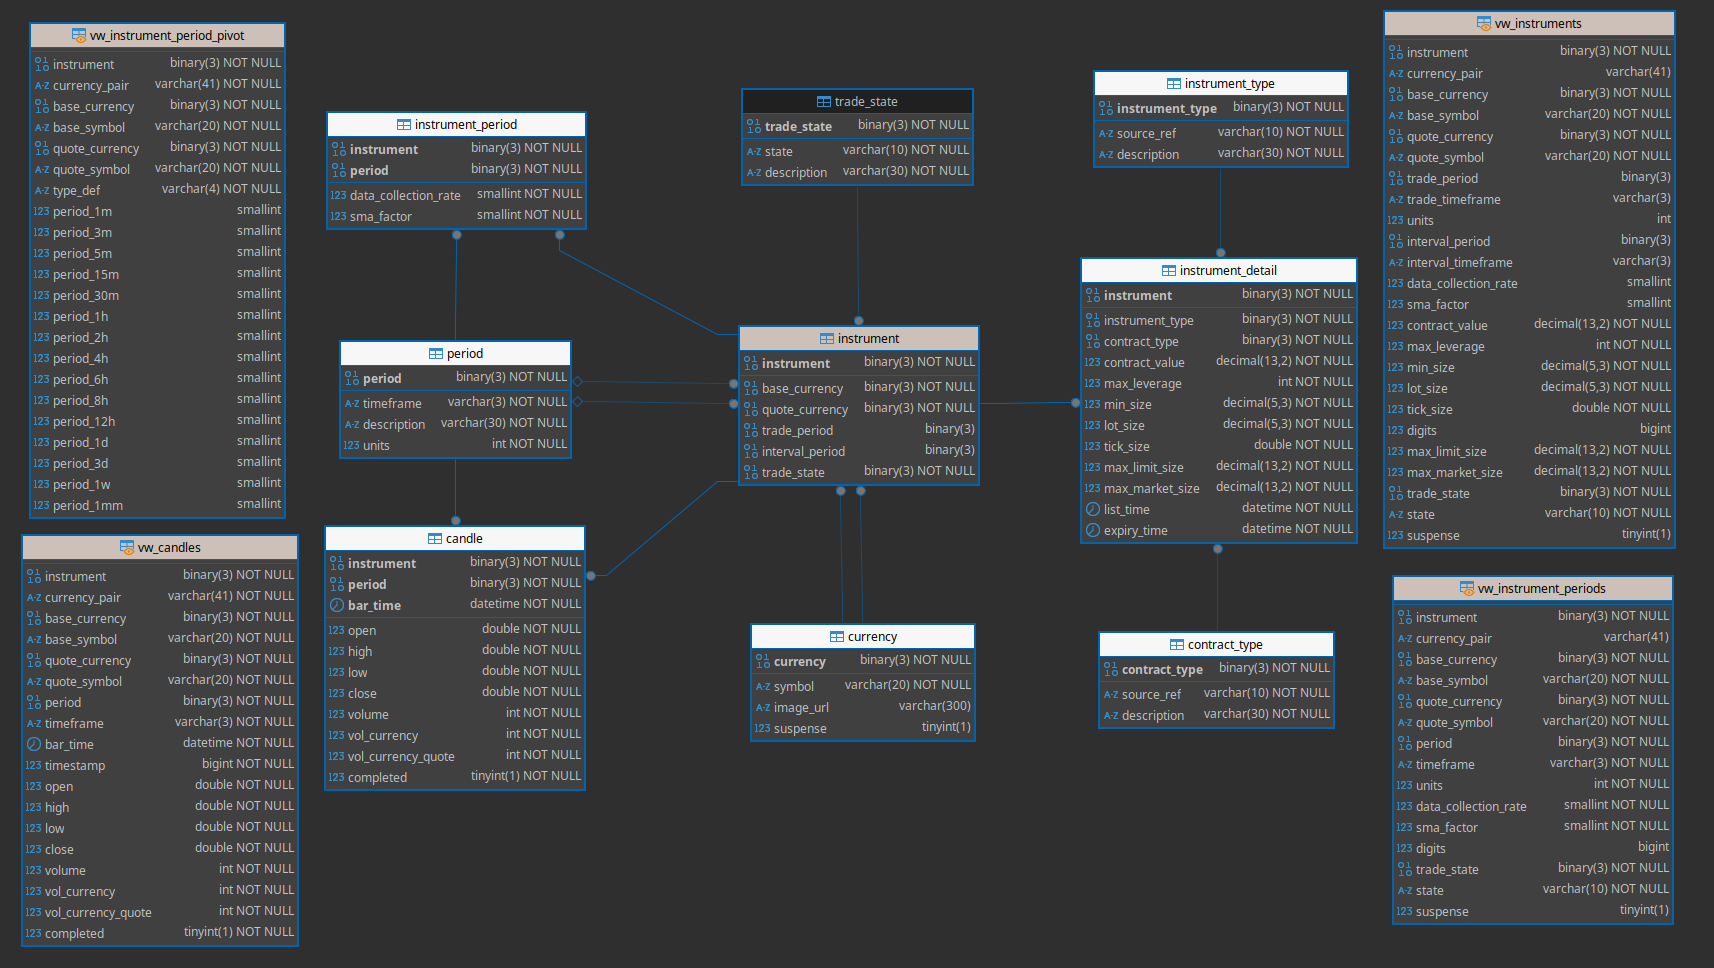
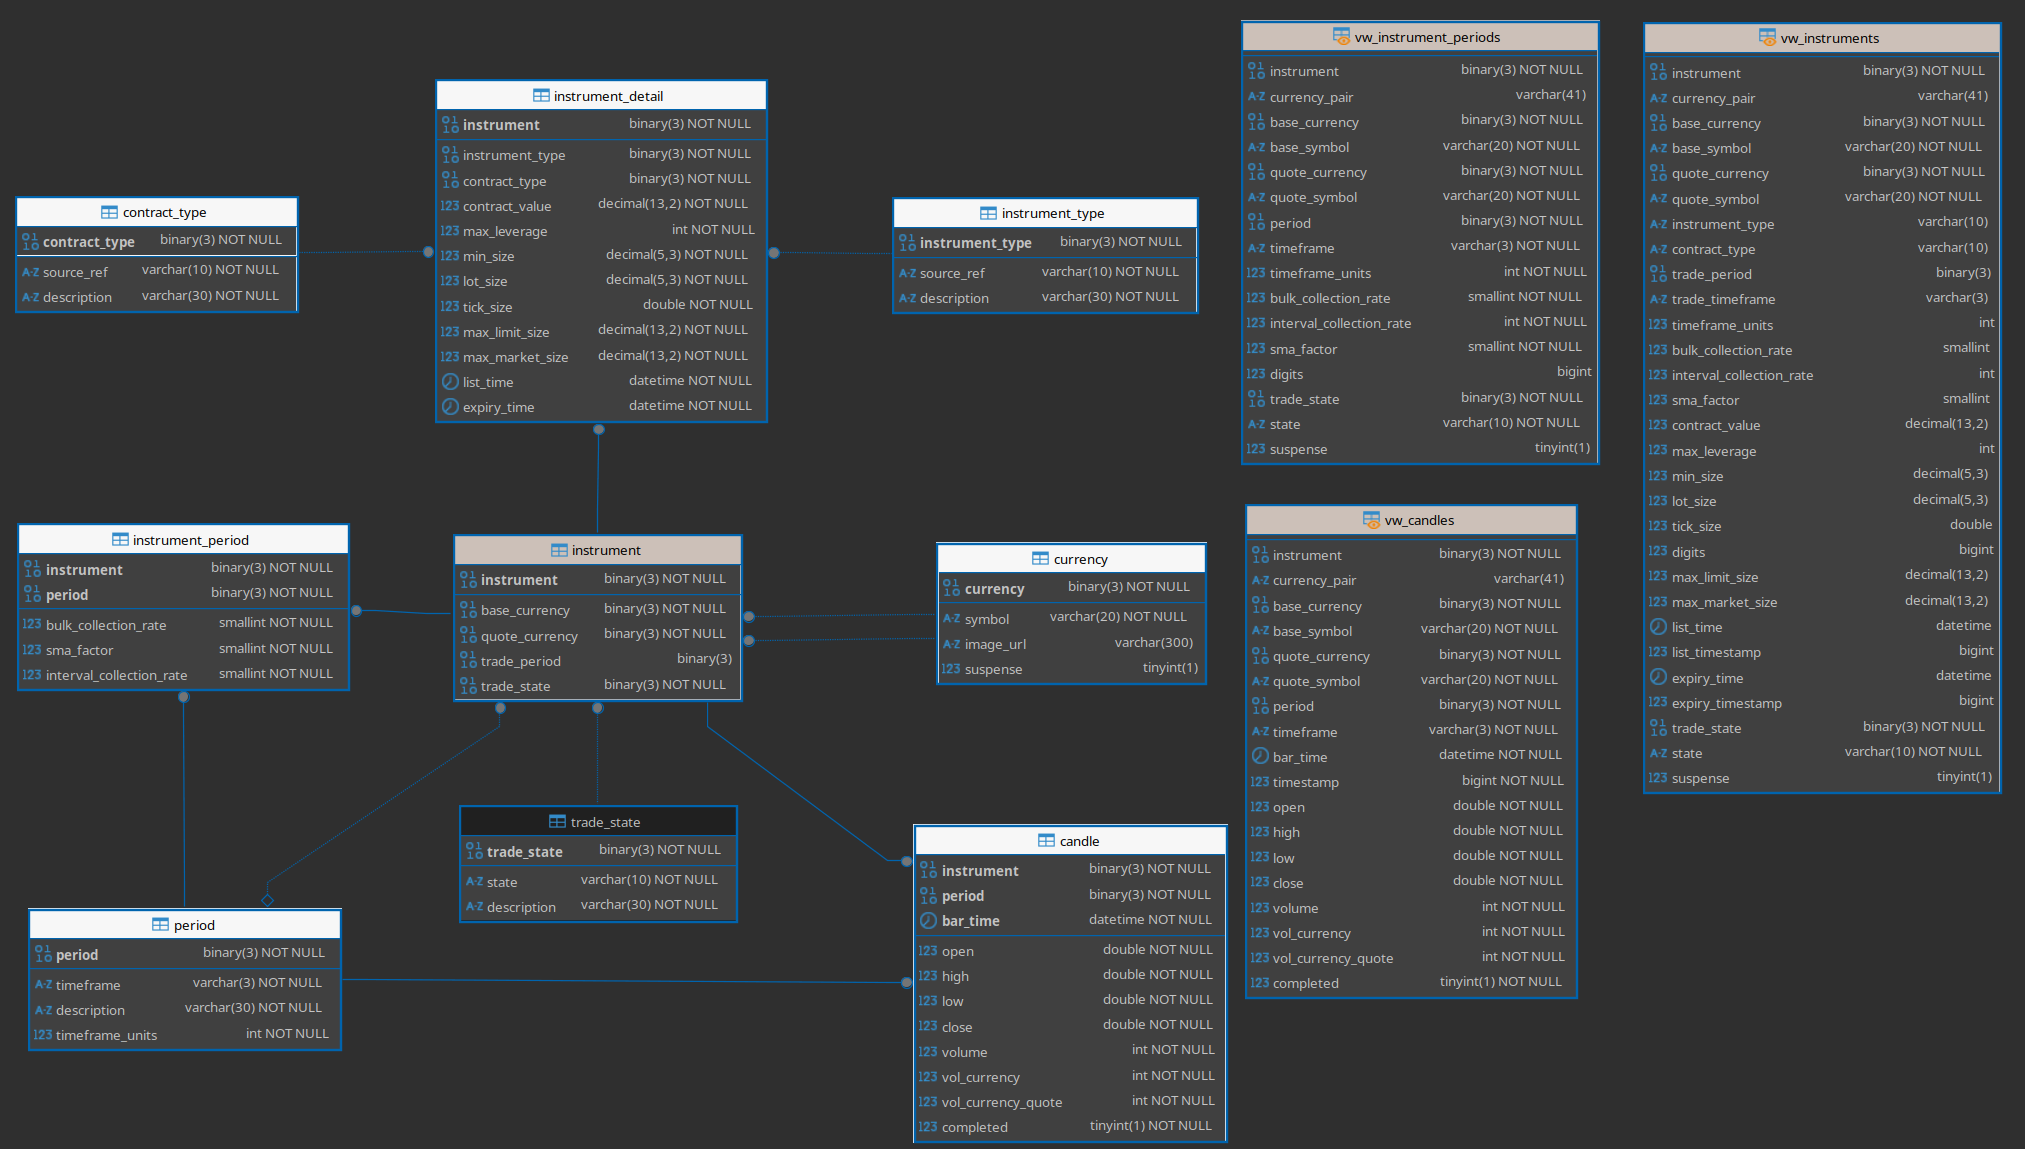
Savepoint; working release; instrument update and suspensions complete; LL: 'async forEach' (although it 'works') not supported; changed to 'for const' loops and some odd behaviour vanished. Instruments now 100% sync'd with blofin; next up: candles;

Changed region(s): [[0.402, 0.0, 0.9895, 1.0], [0.0, 0.0, 0.402, 0.9917]]

diff --git a/api/instruments.ts b/api/instruments.ts
@@ -4,7 +4,7 @@
 //+--------------------------------------------------------------------------------------+
 "use strict";
 
-import { hex, splitSymbol } from "@/lib/std.util";
+import { isEqual, splitSymbol } from "@/lib/std.util";
 
 import * as Instrument from "@db/interfaces/instrument";
 import * as Currency from "@db/interfaces/currency";
@@ -17,8 +17,6 @@ export interface IInstrumentAPI {
   instId: string;
   baseCurrency: string;
   quoteCurrency: string;
-  instType: string;
-  contractType: string;
   contractValue: number;
   listTime: number;
   expireTime: number;
@@ -26,6 +24,8 @@ export interface IInstrumentAPI {
   minSize: number;
   lotSize: number;
   tickSize: number;
+  instType: string;
+  contractType: string;
   maxLimitSize: number;
   maxMarketSize: number;
   state: string;
@@ -34,25 +34,81 @@ export interface IInstrumentAPI {
 export interface IResult {
   code: string;
   msg: string;
-  data: IInstrumentAPI[];
+  data: Array<IInstrumentAPI>;
 }
 
 //+--------------------------------------------------------------------------------------+
-//| Publish - Updates Instruments, related elements stored locally                       |
+//| Publish - Creates new instruments; populates periods on new Blofin receipts          |
 //+--------------------------------------------------------------------------------------+
-export function Publish(apiInstruments: IInstrumentAPI[]) {
-  apiInstruments.forEach(async (apiInstrument) => {
-    const symbol: string[] = splitSymbol(apiInstrument.instId);
-    const baseCurrency = await Currency.Publish(symbol[0], apiInstrument.state !== "live");
+export async function Publish(apiInstrument: Array<IInstrumentAPI>): Promise<Array<IInstrumentAPI>> {
+  for (const api of apiInstrument) {
+    const symbol: string[] = splitSymbol(api.instId);
+    const baseCurrency = await Currency.Publish(symbol[0], api.state !== "live");
     const quoteCurrency = await Currency.Publish(symbol[1], false);
-    const contractType = await ContractType.Publish(apiInstrument.contractType);
-    const instrumentType = await InstrumentType.Publish(apiInstrument.instType);
+    const contractType = await ContractType.Publish(api.contractType);
+    const instrumentType = await InstrumentType.Publish(api.instType);
     const instrument = await Instrument.Publish(baseCurrency, quoteCurrency);
 
-    await InstrumentDetail.Publish(instrument, instrumentType, contractType, apiInstrument);
+    await InstrumentDetail.Publish(instrument, instrumentType, contractType, api);
 
-    console.log("Published", symbol);
+    //console.log("Published", symbol);
+  }
+  return apiInstrument;
+}
+
+//+--------------------------------------------------------------------------------------+
+//| Process - Compares Instruments/details stored locally w/Blofin json; applies diffs   |
+//+--------------------------------------------------------------------------------------+
+export async function Process(apiInstruments: Array<IInstrumentAPI>) {
+  const instruments: Array<Partial<Instrument.IInstrument>> = await Instrument.FetchAll();
+  const modified: Array<IInstrumentAPI> = [];
+  const suspense: Array<Currency.IKeyProps> = [];
+
+  const db: Array<Partial<Instrument.IInstrument>> = instruments.sort((a, b) => {
+    return a.currency_pair! < b.currency_pair! ? -1 : a.currency_pair! > b.currency_pair! ? 1 : 0;
   });
+  const api: Array<IInstrumentAPI> = apiInstruments.sort((a, b) => {
+    return a.instId < b.instId ? -1 : a.instId > b.instId ? 1 : 0;
+  });
+
+  if (db.length >= api.length) {
+    let instrument = 0;
+
+    db.forEach((local) => {
+      if (local.currency_pair === api[instrument].instId) {
+        let updated: boolean = false;
+
+        !isEqual(local.contract_value!, api[instrument].contractValue) && (updated = true);
+        !isEqual(local.list_timestamp!, api[instrument].listTime / 1000) && (updated = true);
+        !isEqual(local.expiry_timestamp!, api[instrument].expireTime / 1000) && (updated = true);
+        !isEqual(local.max_leverage!, api[instrument].maxLeverage) && (updated = true);
+        !isEqual(local.min_size!, api[instrument].minSize) && (updated = true);
+        !isEqual(local.lot_size!, api[instrument].lotSize) && (updated = true);
+        !isEqual(local.tick_size!, api[instrument].tickSize) && (updated = true);
+        !isEqual(local.max_limit_size!, api[instrument].maxLimitSize) && (updated = true);
+        !isEqual(local.max_market_size!, api[instrument].maxMarketSize) && (updated = true);
+
+        local.instrument_type !== api[instrument].instType && (updated = true);
+        local.contract_type !== api[instrument].contractType && (updated = true);
+        local.suspense === (api[instrument].state === "live") && (updated = true);
+
+        if (updated) {
+          const update = Object.assign({}, { instrument: local.instrument! }, api[instrument]);
+          modified.push(update);
+        }
+
+        instrument++;
+      } else if (local.currency_pair! <= api[instrument].instId) {
+        !local.suspense && suspense.push({ currency: local.base_currency!, symbol: local.base_symbol! });
+      }
+    });
+  }
+  console.log("Instruments Suspended: ", suspense.length, suspense);
+  console.log("Instruments Updated: ", modified.length, modified);
+
+  await Currency.Suspend(suspense);
+  await Instrument.Suspend(suspense);
+  await InstrumentDetail.Update(modified);
 
   InstrumentPeriod.Publish();
 }
@@ -63,5 +119,6 @@ export function Publish(apiInstruments: IInstrumentAPI[]) {
 export function Import() {
   fetch(`https://openapi.blofin.com/api/v1/market/instruments`)
     .then((response) => response.json())
-    .then((result: IResult) => Publish(result.data));
+    .then(async (result: IResult) => await Publish(result.data))
+    .then(async (data: Array<IInstrumentAPI>) => await Process(data));
 }

diff --git a/db/interfaces/instrument.ts b/db/interfaces/instrument.ts
@@ -9,6 +9,7 @@ import { Select, Modify, UniqueKey } from "@db/query.utils";
 import { hex, splitSymbol } from "@/lib/std.util";
 import { State } from "@db/interfaces/trade_state";
 
+import * as Currency from "@db/interfaces/currency";
 import * as TradeState from "@db/interfaces/trade_state";
 
 export interface IInstrument extends RowDataPacket {
@@ -18,6 +19,8 @@ export interface IInstrument extends RowDataPacket {
   base_symbol: string;
   quote_currency: Uint8Array;
   quote_symbol: string;
+  instrument_type: string;
+  contract_type: string;
   trade_period: Uint8Array;
   trade_timeframe: string;
   timeframe_units: number;
@@ -32,6 +35,10 @@ export interface IInstrument extends RowDataPacket {
   digits: number;
   max_limit_size: number;
   max_market_size: number;
+  list_time: Date;
+  list_timestamp: number;
+  expiry_time: Date;
+  expiry_timestamp: number;
   trade_state: Uint8Array;
   state: string;
   suspense: boolean;
@@ -72,7 +79,7 @@ export async function Key(props: IKeyProps): Promise<Uint8Array | undefined> {
   const args = [];
 
   if (props.instrument) {
-    args.push(hex(props.instrument,3), `SELECT instrument FROM instrument WHERE instrument = ?`);
+    args.push(hex(props.instrument, 3), `SELECT instrument FROM instrument WHERE instrument = ?`);
   } else if (props.currency?.length === 2) {
     args.push(hex(props.currency[0]), hex(props.currency[1]), `SELECT instrument FROM instrument WHERE base_currency = ? AND quote_currency = ?`);
   } else {
@@ -81,15 +88,22 @@ export async function Key(props: IKeyProps): Promise<Uint8Array | undefined> {
     args.push(symbol[0], symbol[1], `SELECT instrument FROM vw_instruments WHERE base_symbol = ? AND quote_symbol = ?`);
   }
 
-  const [key] = await Select<IInstrument>(args[args.length-1].toString(), args.slice(0, args.length-1));
+  const [key] = await Select<IInstrument>(args[args.length - 1].toString(), args.slice(0, args.length - 1));
   return key === undefined ? undefined : key.instrument;
 }
 
 //+--------------------------------------------------------------------------------------+
-//| Retrieves all trading-related instrument detail by Key;                              |
+//| Retrieves all trading-related instrument details by Key;                              |
 //+--------------------------------------------------------------------------------------+
 export function Fetch(instrument: Uint8Array) {
   return Select<IInstrument>(`SELECT * FROM vw_instruments WHERE instrument = ?`, [instrument]);
+}
+
+//+--------------------------------------------------------------------------------------+
+//| Retrieves all instruments including details;                                         |
+//+--------------------------------------------------------------------------------------+
+export function FetchAll() {
+  return Select<IInstrument>(`SELECT * FROM vw_instruments`, []);
 }
 
 //+--------------------------------------------------------------------------------------+
@@ -101,4 +115,24 @@ export function FetchActive() {
        FROM vw_instruments WHERE data_collection_rate > 0 AND suspense = false`,
     []
   );
+}
+
+//+--------------------------------------------------------------------------------------+
+//| Suspends provided currency upon receipt of an 'unalive' state from Blofin;           |
+//+--------------------------------------------------------------------------------------+
+export async function Suspend(suspensions: Array<Currency.IKeyProps>) {
+  const state = await TradeState.Key({ state: "Suspended" });
+
+  for (const suspense of suspensions) {
+    const args = [state];
+
+    if (suspense.currency) {
+      args.push(hex(suspense.currency));
+    } else if (suspense.symbol) {
+      const currency = await Currency.Key({ symbol: suspense.symbol });
+      args.push(currency);
+    } else return;
+
+    await Modify(`UPDATE instrument SET trade_state = ? WHERE base_currency = ?`, args);
+  }
 }

diff --git a/db/interfaces/instrument_detail.ts b/db/interfaces/instrument_detail.ts
@@ -11,6 +11,8 @@ import { Modify, Select } from "@db/query.utils";
 import { hex } from "@/lib/std.util";
 
 import * as Instrument from "@db/interfaces/instrument";
+import * as ContractType from "@db/interfaces/contract_type";
+import * as InstrumentType from "@db/interfaces/instrument_type";
 
 export interface IInstrumentDetail extends RowDataPacket {
   instrument: Uint8Array;
@@ -79,7 +81,7 @@ export async function Publish(
 }
 
 //+--------------------------------------------------------------------------------------+
-//| Performs a lookup on instrument_detail; returns key if present                       |
+//| Performs a lookup on instrument_detail; returns key if instrument detail exists      |
 //+--------------------------------------------------------------------------------------+
 export async function Key(props: IKeyProps): Promise<Uint8Array | undefined> {
   const args = [];
@@ -90,4 +92,46 @@ export async function Key(props: IKeyProps): Promise<Uint8Array | undefined> {
 
   const [key] = await Select<IInstrumentDetail>(args[1].toString(), [args[0]]);
   return key === undefined ? undefined : key.instrument;
+}
+
+//+--------------------------------------------------------------------------------------+
+//| Updates instrument detail on all identified changes                                  |
+//+--------------------------------------------------------------------------------------+
+export async function Update(updates: Array<IInstrumentAPI & IKeyProps>) {
+  for (const update of updates) {
+    const contractType = await ContractType.Key({ sourceRef: update.contractType });
+    const instrumentType = await InstrumentType.Key({ sourceRef: update.instType });
+
+    if (update.instrument) {
+      await Modify(
+        `UPDATE instrument_detail 
+            SET instrument_type = ?,
+                contract_type = ?,
+                contract_value = ?,
+                max_leverage = ?,
+                min_size = ?,
+                lot_size = ?,
+                tick_size = ?,
+                max_limit_size = ?,
+                max_market_size = ?,
+                list_time = FROM_UNIXTIME(?/1000),
+                expiry_time = FROM_UNIXTIME(?/1000)
+          WHERE instrument = ?`,
+        [
+          instrumentType,
+          contractType,
+          update.contractValue,
+          update.maxLeverage,
+          update.minSize,
+          update.lotSize,
+          update.tickSize,
+          update.maxLimitSize,
+          update.maxMarketSize,
+          update.listTime,
+          update.expireTime,
+          update.instrument,
+        ]
+      );
+    }
+  }
 }

diff --git a/test.ts b/test.ts
@@ -1,3 +1,18 @@
+//----------------------------------- Instrument diffs ------------------------------------------//
+        //   local.instrument_type !== api[instrument].instType && console.log(local.instrument_type !== api[instrument].instType);
+        //   local.contract_type !== api[instrument].contractType && console.log(local.contract_type !== api[instrument].contractType);
+        //   !isEqual(local.contract_value!,api[instrument].contractValue) && console.log(local.contract_value, api[instrument].contractValue);
+        //   !isEqual(local.list_timestamp!,api[instrument].listTime / 1000) && console.log(local.list_timestamp, api[instrument].listTime / 1000);
+        //   !isEqual(local.expiry_timestamp!,api[instrument].expireTime / 1000) && console.log(local.expire_timestamp, api[instrument].expireTime / 1000);
+        //   !isEqual(local.max_leverage!,api[instrument].maxLeverage) && console.log(local.max_leverage, api[instrument].maxLeverage);
+        //   !isEqual(local.min_size!,api[instrument].minSize) && console.log(local.min_size, api[instrument].minSize);
+        //   !isEqual(local.lot_size!,api[instrument].lotSize) && console.log(local.lot_size, api[instrument].lotSize);
+        //   !isEqual(local.tick_size!,api[instrument].tickSize) && console.log(local.tick_size, api[instrument].tickSize);
+        //   !isEqual(local.max_limit_size!,api[instrument].maxLimitSize) && console.log(local.max_limit_size, api[instrument].maxLimitSize);
+        //   !isEqual(local.max_market_size!,api[instrument].maxMarketSize) && console.log(local.max_market_size, api[instrument].maxMarketSize);
+        //   (local.suspense === (api[instrument].state === "live")) && console.log(local.suspense,api[instrument].state);
+
+
 //----------------------------------- Instrument Type ------------------------------------------//
 // import { Publish } from "./db/interfaces/instrument_type";
 
@@ -7,7 +22,7 @@
 //     console.log(key);
 //     return key;
 //   }
-//   const key = await insert('Linear');
+//   const key = await insert('Linea``r');
 // }
 
 // awaitingsolong();

diff --git a/db/interfaces/currency.ts b/db/interfaces/currency.ts
@@ -27,13 +27,10 @@ export async function Publish(symbol: string, suspense: boolean): Promise<Uint8A
   const currency = await Key({ symbol });
 
   if (currency === undefined) {
-    const key = hex(UniqueKey(6),3);
-    const defaultImage: string = './public/images/currency/no-image.png';
+    const key = hex(UniqueKey(6), 3);
+    const defaultImage: string = "./public/images/currency/no-image.png";
 
-    await Modify(
-      `INSERT INTO currency (currency, symbol, image_url, suspense) VALUES (?, ?, ?, ?)`,
-      [key, symbol, defaultImage, suspense]
-    );
+    await Modify(`INSERT INTO currency (currency, symbol, image_url, suspense) VALUES (?, ?, ?, ?)`, [key, symbol, defaultImage, suspense]);
     return key;
   }
   return currency;
@@ -53,4 +50,21 @@ export async function Key(props: IKeyProps): Promise<Uint8Array | undefined> {
 
   const [key] = await Select<ICurrency>(args[1].toString(), [args[0]]);
   return key === undefined ? undefined : key.currency;
+}
+
+//+--------------------------------------------------------------------------------------+
+//| Suspends provided currency upon receipt of an 'unalive' state from Blofin;           |
+//+--------------------------------------------------------------------------------------+
+export async function Suspend(suspensions: Array<IKeyProps>) {
+  for (const suspense of suspensions) {
+    const args = [];
+
+    if (suspense.currency) {
+      args.push(suspense.currency, `UPDATE currency SET suspense = true WHERE currency = ?`);
+    } else if (suspense.symbol) {
+      args.push(suspense.symbol, `UPDATE currency SET suspense = true WHERE symbol = ?`);
+    } else return;
+
+    await Modify(args[1].toString(), [args[0]]);
+  }
 }

diff --git a/lib/std.util.ts b/lib/std.util.ts
@@ -89,7 +89,7 @@ export const direction = (value: number): Direction => {
 };
 
 //+--------------------------------------------------------------------------------------+
-//| Returns true on high value comparison and updates value if .update is set to true    |
+//| Returns true if value is in bounds conclusively; inside the bounds exclusively       |
 //+--------------------------------------------------------------------------------------+
 export const isBetween = (test: number, bound1: number, bound2: number, inclusive = true, digits: number = 8): boolean => {
   const highBound: number = parseFloat(Math.max(bound1, bound2).toFixed(digits));
@@ -99,4 +99,14 @@ export const isBetween = (test: number, bound1: number, bound2: number, inclusiv
   if (!inclusive) return check > lowBound && check < highBound;
 
   return lowBound === check || highBound === check;
+};
+
+//+--------------------------------------------------------------------------------------+
+//| Returns true on equal comparison at a specified precision                            |
+//+--------------------------------------------------------------------------------------+
+export const isEqual = (test: number | string, check: number | string, digits: number = 8): boolean => {
+  const arg1: string = typeof test === 'string' ? parseFloat(test).toFixed(digits) : test.toFixed(digits);
+  const arg2: string = typeof check === 'string' ? parseFloat(check).toFixed(digits) : check.toFixed(digits);
+
+  return arg1 === arg2;
 };
